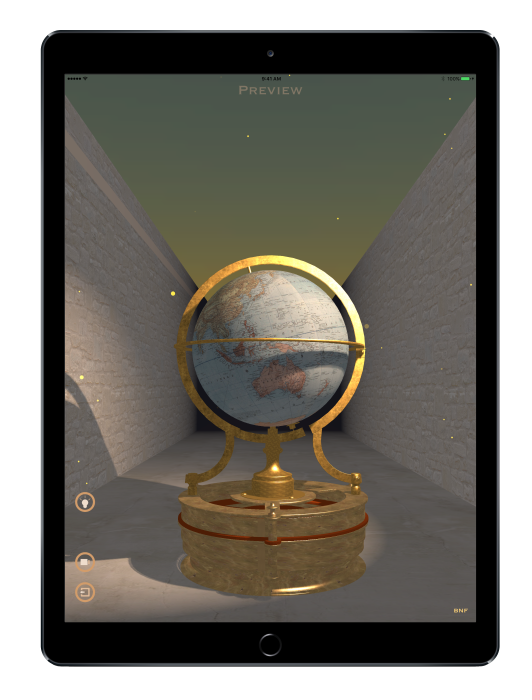
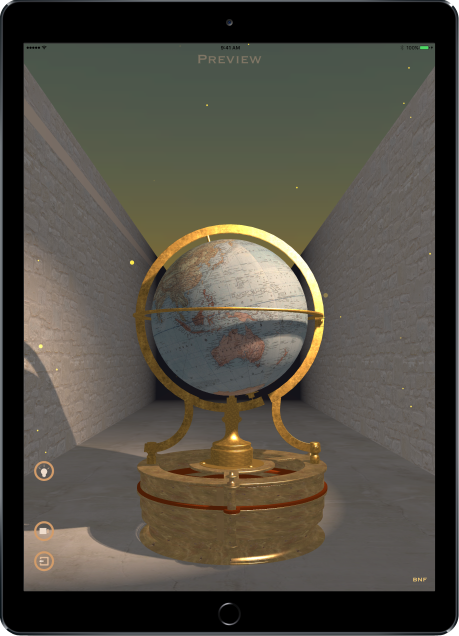
Скриншоты

diff --git a/index.html b/index.html
@@ -406,68 +406,68 @@
         ==== Screenhots Section ====
         =========================-->
         <section id="screenshots">
-            <div class="container"> <!-- Start container -->
-                <div class="row">  <!-- Section title and subtitle-->
+            <div class="container">
+                <div class="row">
                     <div class="col-sm-6 col-sm-offset-3 col-md-6 col-md-offset-3 col-lg-6 col-lg-offset-3 wow fadeInDown" >
-                        <h2> <span class="highlight">Globe</span> Screenshots</h2>
+                        <h2> <span class="highlight">Libro dei Globi</span> Screenshots</h2>
                         <p>Nam libero tempore, cum soluta nobis est eligendi optio cumque nihil impedit quo minus id quod maxime placeat facere possimus, omnis voluptas assumenda est, omnis dolor repellendus.
                         </p>
                     </div>
-                </div> <!-- End section title and subtitle-->
+                </div>
 
-                <div class="row"> <!-- Screenshots slider row -->
-                    <div class="col-sm-12 col-md-12 col-lg-12"> <!-- 12 col -->
+                <div class="row">
+                    <div class="col-sm-12 col-md-12 col-lg-12">
 
-                        <div id="owl-screenshots" class="owl-carousel"> <!-- Start Screenshots slider -->
+                        <div id="owl-screenshots" class="owl-carousel">
 
-                            <div class="item wow fadeInDown" data-wow-delay=".5s" > <!-- Slider item 1 -->
-                                <a href="images/screens/screen_1.png" data-lightbox-gallery="gallery1" data-lightbox-hidpi="images/gallery1@2x.jpg">
+                            <div class="item wow fadeInDown" data-wow-delay=".5s" >
+                                <a href="images/screens/screen_1_border.png" data-lightbox-gallery="gallery1" data-lightbox-hidpi="images/gallery1@2x.jpg">
                                     <img src="images/screens/screen_1.png" class="img-responsive img-rounded" alt="img">
                                 </a>
-                            </div><!-- End slider item 1 -->
+                            </div>
 
-                            <div class="item wow fadeInDown" data-wow-delay="1s"> <!-- Slider item 2 -->
-                                <a href="images/screens/screen_2.png" data-lightbox-gallery="gallery1" data-lightbox-hidpi="images/gallery2@2x.jpg">
+                            <div class="item wow fadeInDown" data-wow-delay="1s">
+                                <a href="images/screens/screen_2_border.png" data-lightbox-gallery="gallery1" data-lightbox-hidpi="images/gallery2@2x.jpg">
                                     <img src="images/screens/screen_2.png" class="img-responsive img-rounded" alt="img">
                                 </a>
-                            </div> <!-- End slider item 2 -->
+                            </div>
 
-                            <div class="item wow fadeInDown" data-wow-delay="1.5s"> <!-- Slider item 3 -->
-                                <a href="images/screens/screen_3.png" data-lightbox-gallery="gallery1" data-lightbox-hidpi="images/gallery3@2x.jpg">
+                            <div class="item wow fadeInDown" data-wow-delay="1.5s">
+                                <a href="images/screens/screen_3_border.png" data-lightbox-gallery="gallery1" data-lightbox-hidpi="images/gallery3@2x.jpg">
                                     <img src="images/screens/screen_3.png" class="img-responsive img-rounded" alt="img">
                                 </a>
-                            </div> <!-- End slider item 3 -->
+                            </div>
 
-                            <div class="item wow fadeInDown" data-wow-delay="2s"> <!-- Slider item 4 -->
-                                <a href="images/screens/screen_4.png" data-lightbox-gallery="gallery1" data-lightbox-hidpi="images/gallery4@2x.jpg">
+                            <div class="item wow fadeInDown" data-wow-delay="2s">
+                                <a href="images/screens/screen_4_border.png" data-lightbox-gallery="gallery1" data-lightbox-hidpi="images/gallery4@2x.jpg">
                                     <img src="images/screens/screen_4.png" class="img-responsive img-rounded" alt="img">
                                 </a>
-                            </div> <!-- End slider item 4 -->
+                            </div>
 
-                            <div class="item wow fadeInDown" data-wow-delay="2.5s"> <!-- Slider item 5 -->
-                                <a href="images/screens/screen_5.png" data-lightbox-gallery="gallery1" data-lightbox-hidpi="images/gallery5@2x.jpg">
+                            <div class="item wow fadeInDown" data-wow-delay="2.5s">
+                                <a href="images/screens/screen_5_border.png" data-lightbox-gallery="gallery1" data-lightbox-hidpi="images/gallery5@2x.jpg">
                                     <img src="images/screens/screen_5.png" class="img-responsive img-rounded" alt="img">
                                 </a>
-                            </div> <!-- End slider item 5 -->
+                            </div>
 
-                            <div class="item"> <!-- Slider item 6 -->
-                                <a href="images/screens/screen_6.png" data-lightbox-gallery="gallery1" data-lightbox-hidpi="images/gallery6@2x.jpg">
+                            <div class="item">
+                                <a href="images/screens/screen_6_border.png" data-lightbox-gallery="gallery1" data-lightbox-hidpi="images/gallery6@2x.jpg">
                                     <img src="images/screens/screen_6.png" class="img-responsive img-rounded" alt="img">
                                 </a>
-                            </div> <!-- End slider item 6 -->
+                            </div>
 
-                            <div class="item"> <!-- Slider item 7 -->
-                                <a href="images/screens/screen_7.png" data-lightbox-gallery="gallery1" data-lightbox-hidpi="images/gallery7@2x.jpg">
+                            <div class="item">
+                                <a href="images/screens/screen_7_border.png" data-lightbox-gallery="gallery1" data-lightbox-hidpi="images/gallery7@2x.jpg">
                                     <img src="images/screens/screen_7.png" class="img-responsive img-rounded" alt="img">
                                 </a>
-                            </div> <!-- End slider item 7 -->
+                            </div>
 
-                        </div> <!-- End Screenshots slider -->
-                    </div> <!-- End 12 col -->
+                        </div>
+                    </div>
 
-                </div> <!-- End screenshots slider row -->
+                </div>
 
-            </div> <!-- End container -->
+            </div>
             <div class="clearfix"></div>
         </section>
 
@@ -475,31 +475,31 @@
         ====== Facts Counter =======
         =========================-->
         <section id="counter">
-            <div class="container"> <!-- Start container-->
+            <div class="container">
 
-                <div class="col-md-12"> <!-- Start 12 col -->
-                    <div class="col-md-3 col-xs-6"> <!-- Start counter 1-->
+                <div class="col-md-12">
+                    <div class="col-md-3 col-xs-6">
                       <h1 class="count">1207489</h1>
                       <h6>Total Downloads</h6>
-                    </div> <!-- End counter 1-->
+                    </div>
 
-                    <div class="col-md-3 col-xs-6"> <!-- Start counter 2-->
+                    <div class="col-md-3 col-xs-6">
                       <h1 class="count">163</h1>
                       <h6>Total App Created</h6>
-                    </div> <!-- End counter 2-->
+                    </div>
 
-                    <div class="col-md-3 col-xs-6"> <!-- Start counter 3-->
+                    <div class="col-md-3 col-xs-6">
                       <h1 class="count">230089</h1>
                       <h6>Users</h6>
-                    </div> <!-- End counter 3-->
+                    </div>
 
-                    <div class="col-md-3 col-xs-6"> <!-- Start counter 4-->
+                    <div class="col-md-3 col-xs-6">
                       <h1 class="count">34</h1>
                       <h6>Win Awards</h6>
-                    </div> <!-- End counter 4-->
-                </div><!-- End 12 col -->
+                    </div>
+                </div>
 
-            </div><!-- End container-->
+            </div>
             <div class="clearfix"></div>
         </section>
 
@@ -515,7 +515,7 @@
                     </div>
                     
                 </div>
-            	<div class="row"> <!-- Start row -->
+            	<div class="row">
                     <div class="col-sm-3">
 			            <div class="team-member">
 			                <div class="effect eff-18">
@@ -551,11 +551,11 @@
 			                <h4>Developer #2</h4>
 			                <p class="text-muted">Position #2</p>
 			                <ul class="list-inline social-buttons">
-			                    <li><a href="#team"><i class="fa fa-globe"></i></a>
+			                    <li><a href="#team"><i class="fa fa-yahoo"></i></a>
 			                    </li>
-			                    <li><a href="#team"><i class="fa fa-github"></i></a>
+			                    <li><a href="#team"><i class="fa fa-instagram"></i></a>
 			                    </li>
-			                    <li><a href="#team"><i class="fa fa-linkedin"></i></a>
+			                    <li><a href="#team"><i class="fa fa-slack"></i></a>
 			                    </li>
 			                </ul>
 			            </div>
@@ -575,11 +575,11 @@
 			                <h4>Developer #3</h4>
 			                <p class="text-muted">Position #3</p>
 			                <ul class="list-inline social-buttons">
-			                    <li><a href="#team"><i class="fa fa-globe"></i></a>
+			                    <li><a href="#team"><i class="fa fa-xing"></i></a>
 			                    </li>
-			                    <li><a href="#team"><i class="fa fa-github"></i></a>
+			                    <li><a href="#team"><i class="fa fa-twitter"></i></a>
 			                    </li>
-			                    <li><a href="#team"><i class="fa fa-linkedin"></i></a>
+			                    <li><a href="#team"><i class="fa fa-tumblr"></i></a>
 			                    </li>
 			                </ul>
 			            </div>
@@ -599,11 +599,11 @@
 			                <h4>Developer #4</h4>
 			                <p class="text-muted">Position #4</p>
 			                <ul class="list-inline social-buttons">
-			                    <li><a href="#team"><i class="fa fa-globe"></i></a>
+			                    <li><a href="#team"><i class="fa fa-bitbucket"></i></a>
 			                    </li>
-			                    <li><a href="#team"><i class="fa fa-github"></i></a>
+			                    <li><a href="#team"><i class="fa fa-flickr"></i></a>
 			                    </li>
-			                    <li><a href="#team"><i class="fa fa-linkedin"></i></a>
+			                    <li><a href="#team"><i class="fa fa-google-plus"></i></a>
 			                    </li>
 			                </ul>
 			            </div>
@@ -637,11 +637,11 @@
                             <h4>Developer #4</h4>
                             <p class="text-muted">Position #4</p>
                             <ul class="list-inline social-buttons">
-                                <li><a href="#team"><i class="fa fa-globe"></i></a>
+                                <li><a href="#team"><i class="fa fa-youtube"></i></a>
                                 </li>
-                                <li><a href="#team"><i class="fa fa-github"></i></a>
+                                <li><a href="#team"><i class="fa fa-skype"></i></a>
                                 </li>
-                                <li><a href="#team"><i class="fa fa-linkedin"></i></a>
+                                <li><a href="#team"><i class="fa fa-behance"></i></a>
                                 </li>
                             </ul>
                         </div>
@@ -661,17 +661,17 @@
                             <h4>Developer #4</h4>
                             <p class="text-muted">Position #4</p>
                             <ul class="list-inline social-buttons">
-                                <li><a href="#team"><i class="fa fa-globe"></i></a>
+                                <li><a href="#team"><i class="fa fa-facebook"></i></a>
                                 </li>
-                                <li><a href="#team"><i class="fa fa-github"></i></a>
+                                <li><a href="#team"><i class="fa fa-vk"></i></a>
                                 </li>
-                                <li><a href="#team"><i class="fa fa-linkedin"></i></a>
+                                <li><a href="#team"><i class="fa fa-twitch"></i></a>
                                 </li>
                             </ul>
                         </div>
                     </div>                    		        
-                </div> <!-- End row -->
-            </div> <!-- End container -->
+                </div>
+            </div>
             <div class="clearfix"></div>
         </section>
         
